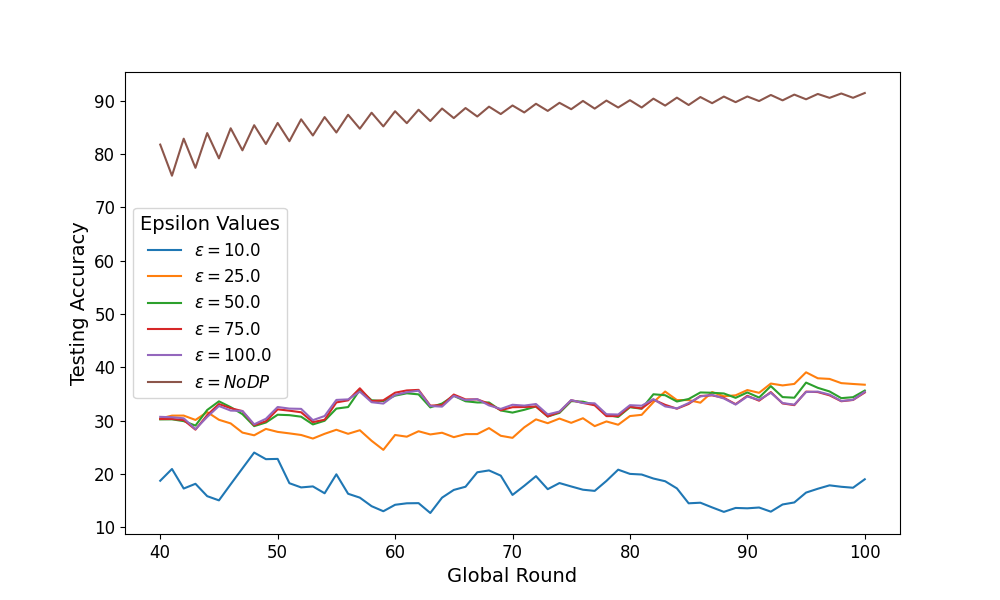
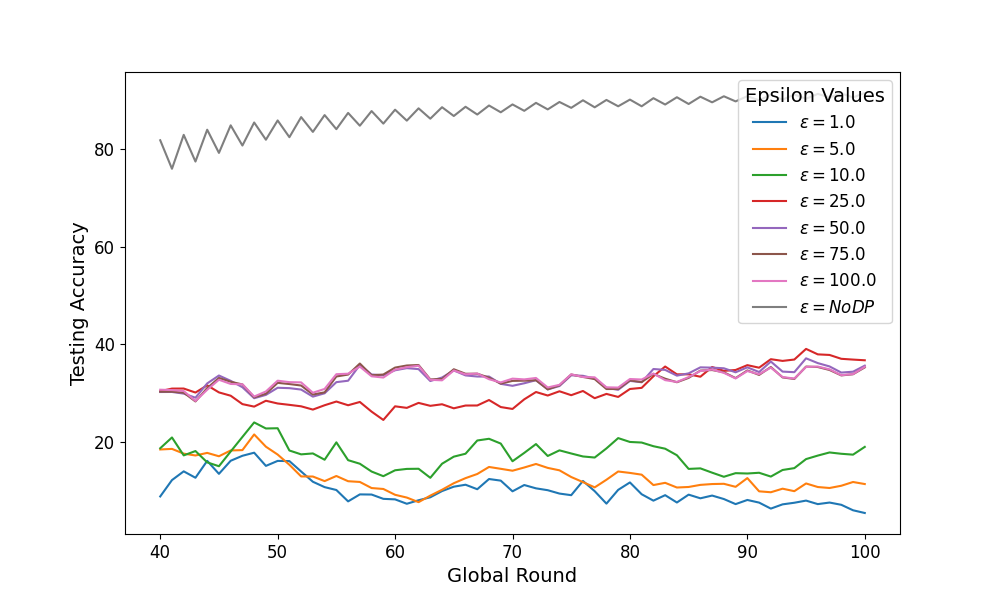
New Figures

diff --git a/drawFinal.py b/drawFinal.py
@@ -57,7 +57,7 @@ if __name__ == '__main__':
 
     # Continue as needed for Laplace or other data
     plt.figure(figsize=(10, 6))
-    epsilon_array = ['10.0', '25.0', '50.0', '75.0', '100.0']
+    epsilon_array = ['1.0', '5.0', '10.0', '25.0', '50.0', '75.0', '100.0']
     plt.ylabel('Testing Accuracy', fontsize=14)
     plt.xlabel('Global Round', fontsize=14)
     plt.xticks(fontsize=12)
